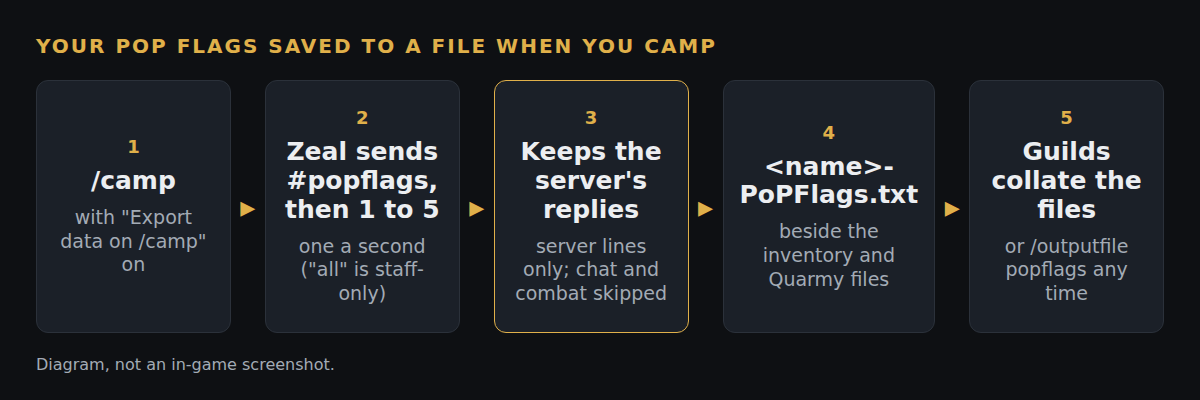
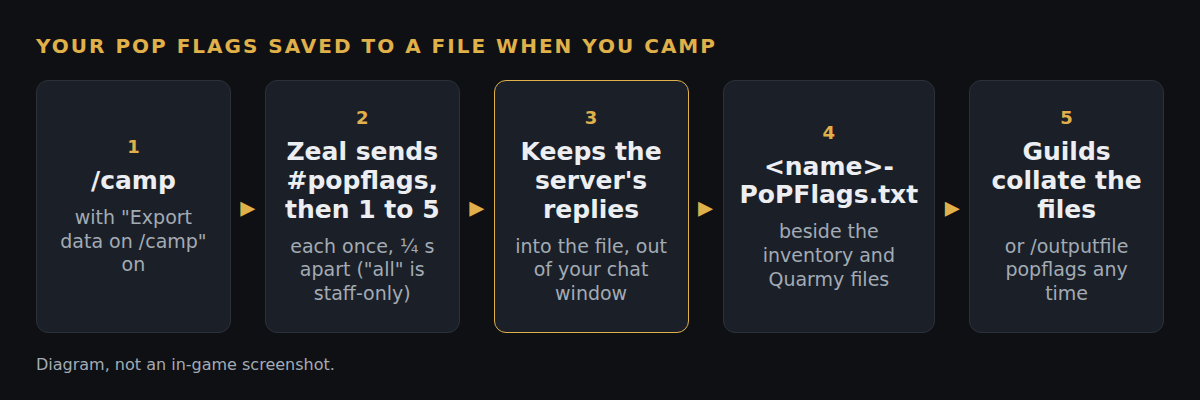
docs: PoP flags export — second run (repeats, chat flood) and the fix
Post, test cases and DECISIONS §227 record the second in-game run: each
section printed several times and flooded the chat at camp. Cause is
Zeal's invoke_delayed firing on every frame inside a tick step; the
export now sends each command once and keeps the reply out of chat
(fork popflags b27bb26, test-all 593f848). Also records the /roleplay
guild-mark change.

Claude-Session: https://claude.ai/code/session_01Uq6P6RYLtiKKfy5UWjT7AX

Changed region(s): [[0.2467, 0.6, 0.37, 0.78], [0.4317, 0.6, 0.555, 0.75]]

diff --git a/showcase/popflags-export/TEST-CASES.md b/showcase/popflags-export/TEST-CASES.md
@@ -1,13 +1,18 @@
 # Test cases: export #popflags on /camp
 
-For the `popflags-export` branch (`ef17b00`) or, once merged there, the fork's test-all build,
+For the `popflags-export` branch (`b27bb26`) or the fork's test-all build (`593f848` or later),
 https://github.com/davehess/Zeal/releases/tag/test-all-build.
 
 **First in-game run (2026-10-10, an earlier build that sent `#popflags all`):** the file was written with the character,
 timestamp and the server's one reply line, "The all option is restricted to server staff." So the camp hook, the capture,
 the colour filter and the file write all worked; the command was wrong. `all` needs server-staff status (the server's
-`zone/gm_commands/popflags.cpp`), so the export now sends `#popflags` (the overview) and `#popflags 1` to `5`, one a
-second. The run also showed the chat timestamp on the saved line, which is now removed. The cases below are for that build.
+`zone/gm_commands/popflags.cpp`), so the export now sends `#popflags` (the overview) and `#popflags 1` to `5`. The run
+also showed the chat timestamp on the saved line, which is now removed.
+
+**Second in-game run (same day):** the full reply came back, but each section printed several times (Tier 4 three
+times, Plane of Time ten) and flooded the chat at camp. Zeal's delayed callbacks can fire on more than one frame, so
+each send now runs exactly once; the reply goes to the file instead of the chat window; the commands go out a quarter
+second apart and the file is written about 3 seconds after the request. The cases below are for that build.
 
 **Common setup:** a character in game, standing in a safe spot, in the Planes of Power era server. Open the EverQuest folder
 to look for `<Name>-PoPFlags.txt`. Delete any old copy before each case. Type `#popflags` and `#popflags 1` to `5` once by
@@ -33,9 +38,10 @@ Mark each case: `[x]` pass, `[!]` fail (write what you saw under it).
 
 ### 3. On-demand command
 - **Setup:** option off or on, standing in game.
-- **Steps:** `/outputfile popflags`, then wait about 8 seconds. Then `/outputfile popflags my_flags` after 15 seconds.
-- **Expected:** a chat line "Requesting #popflags...", the six replies one a second, then "PoP flags saved to: ...". The
-  second run writes `my_flags.txt` instead. `/out popflags` and `/output popflags` work as aliases.
+- **Steps:** `/outputfile popflags`, then wait about 3 seconds. Then `/outputfile popflags my_flags` after 15 seconds.
+- **Expected:** a chat line "Requesting #popflags...", then "PoP flags saved to: ... (N lines)", with none of the
+  reply in the chat window and every section once in the file (no repeats). The second run writes `my_flags.txt`
+  instead. `/out popflags` and `/output popflags` work as aliases.
 - **Result:** [ ] pass  [ ] fail
 
 ### 4. File matches the in-game reply
@@ -55,7 +61,7 @@ Mark each case: `[x]` pass, `[!]` fail (write what you saw under it).
 ### 6. Server does not answer
 - **Setup:** a server or zone where `#popflags` is not available, or send it with the network lagging.
 - **Steps:** `/outputfile popflags`.
-- **Expected:** after about 8 seconds "No reply to #popflags, nothing saved.", no file written, no repeat requests.
+- **Expected:** after about 3 seconds "No reply to #popflags, nothing saved.", no file written, no repeat requests.
 - **Result:** [ ] pass  [ ] fail
 
 ### 7. Two characters in a row
@@ -66,7 +72,7 @@ Mark each case: `[x]` pass, `[!]` fail (write what you saw under it).
 ### 8. Camp cancelled by moving
 - **Steps:** `/camp`, then stand up and walk before the camp finishes.
 - **Expected (by design):** the file is still written, the same as the inventory, spellbook and Quarmy files, which are also
-  written when the camp starts. There is no partial file: it is written once, whole, about 8 seconds after the request.
+  written when the camp starts. There is no partial file: it is written once, whole, about 3 seconds after the request.
 - **Result:** [ ] pass  [ ] fail
 
 ### 9. Pressing camp repeatedly
@@ -103,8 +109,8 @@ Mark each case: `[x]` pass, `[!]` fail (write what you saw under it).
 - **Expected:** the file name carries the host tag like the other exports, for example `<Name>-PoPFlags_<host>.txt`.
 - **Result:** [ ] pass  [ ] fail
 
-### 15. Zoning or logging out inside the 8 seconds
-- **Steps:** `/outputfile popflags`, then zone straight away. Also run it and `/camp` out within 8 seconds.
+### 15. Zoning or logging out inside the 3 seconds
+- **Steps:** `/outputfile popflags`, then zone straight away. Also run it and `/camp` out within 3 seconds.
 - **Expected:** no crash. Commands not yet sent when you leave the game are skipped. The file is written with whatever
   arrived (or nothing if nothing did).
 - **Result:** [ ] pass  [ ] fail
@@ -114,5 +120,5 @@ Mark each case: `[x]` pass, `[!]` fail (write what you saw under it).
 ### 16. Busy raid chat
 - **Setup:** in a raid with heavy combat spam, framerate counter on.
 - **Steps:** `/outputfile popflags`.
-- **Expected:** no visible framerate dip during the 8 seconds, and the file stays small (the capture stops at 400 lines).
+- **Expected:** no visible framerate dip during the 3 seconds, and the file stays small (the capture stops at 400 lines).
 - **Result:** [ ] pass  [ ] fail

diff --git a/showcase/popflags-export/README.md b/showcase/popflags-export/README.md
@@ -2,7 +2,7 @@
 
 # Save your #popflags output with "Export data on /camp"
 
-*Fork branch `popflags-export` (`ef17b00`), based on Zeal 1.4.8. Status: draft; in the test-all build (`67bea01`). A first in-game run confirmed the capture and the file; the full flag output is next.*
+*Fork branch `popflags-export` (`b27bb26`), based on Zeal 1.4.8. Status: draft; in the test-all build (`593f848`). Two in-game runs so far; the fixes from the second (repeats, chat flood) need a third.*
 
 ![Diagram: /camp sends #popflags and #popflags 1-5, Zeal keeps the replies and writes <name>-PoPFlags.txt](diagram.png)
 
@@ -15,17 +15,18 @@ With "Export data on /camp" on, camping now also saves your Planes of Power flag
 Guilds collate PoP flags by hand in spreadsheets. The server already prints each character's flags with `#popflags`, but only into chat, where it scrolls away. A file per character, written at the end of the night, can be collected and merged by a script.
 
 **How**
-`#popflags all` is limited to server staff, so Zeal asks the way a player would: `#popflags` (the overview), then `#popflags 1` to `5`, one a second. Until 3 seconds after the last one it keeps the server-coloured chat lines that arrive (player chat, combat and NPC speech are skipped), drops the chat timestamp, and writes them under three header lines (character, timestamp, command) and a `---` line. The replies still show in your chat. Nothing waits on the server, so the game never stalls. If the server sends nothing, no file is written. A new request needs 15 seconds since the last, and none is sent when the camp is not going ahead. About 120 lines in `outputfile.cpp` and `outputfile.h`, plus README and CHANGELOG. No new setting, but players who already have "Export data on /camp" ticked will start sending these six commands when they camp.
+`#popflags all` is limited to server staff, so Zeal asks the way a player would: `#popflags` (the overview), then `#popflags 1` to `5`, a quarter second apart. Until 1.5 seconds after the last one it takes the reply's lines (white, lime, yellow and red server text; player chat, combat and NPC speech are skipped), drops the chat timestamp, and writes them under three header lines (character, timestamp, command) and a `---` line. The reply goes to the file, not the chat window, so camping does not flood your chat. Nothing waits on the server, so the game never stalls. If the server sends nothing, no file is written. A new request needs 15 seconds since the last, and none is sent when the camp is not going ahead. About 130 lines in `outputfile.cpp` and `outputfile.h`, plus README and CHANGELOG. No new setting, but players who already have "Export data on /camp" ticked will start sending these six commands when they camp.
 
 The file keeps the server's reply line for line, so it stays correct if the server changes its wording.
 
 **How tested**
 - In game, on an earlier build that sent `#popflags all`: camping wrote `<name>-PoPFlags.txt` with the header and the server's one reply ("The all option is restricted to server staff."). That proved the camp hook, the colour filter and the file; it is also how we found `all` is staff-only.
+- In game, on the next build: the full reply came back, but each section printed several times and flooded the chat at camp. Zeal's delayed callbacks can run on more than one frame (they fire when the time is reached but are removed only once it has passed, and the tick count moves in 10-16 ms steps), so each send now runs once, and the reply is kept out of the chat window. A simulation of that frame/tick behaviour confirms one send per command.
 - The server's own `#popflags` code was read to pick the player commands and to check every reply line uses a colour the filter keeps.
 - The capture, the timing rules, the empty-reply case, the file layout and the timestamp strip ran against a stand-in on Linux; clang-format with Zeal's style is clean.
 - The whole fork is built by GitHub from test-all. The remaining cases are in [`TEST-CASES.md`](TEST-CASES.md).
 
-**Try it:** in the fork's test-all build (https://github.com/davehess/Zeal/releases/tag/test-all-build), `67bea01` or later, then `/outputfile popflags`.
+**Try it:** in the fork's test-all build (https://github.com/davehess/Zeal/releases/tag/test-all-build), `593f848` or later, then `/outputfile popflags`.
 
 **Pull request:** _link added when it is filed._
 
